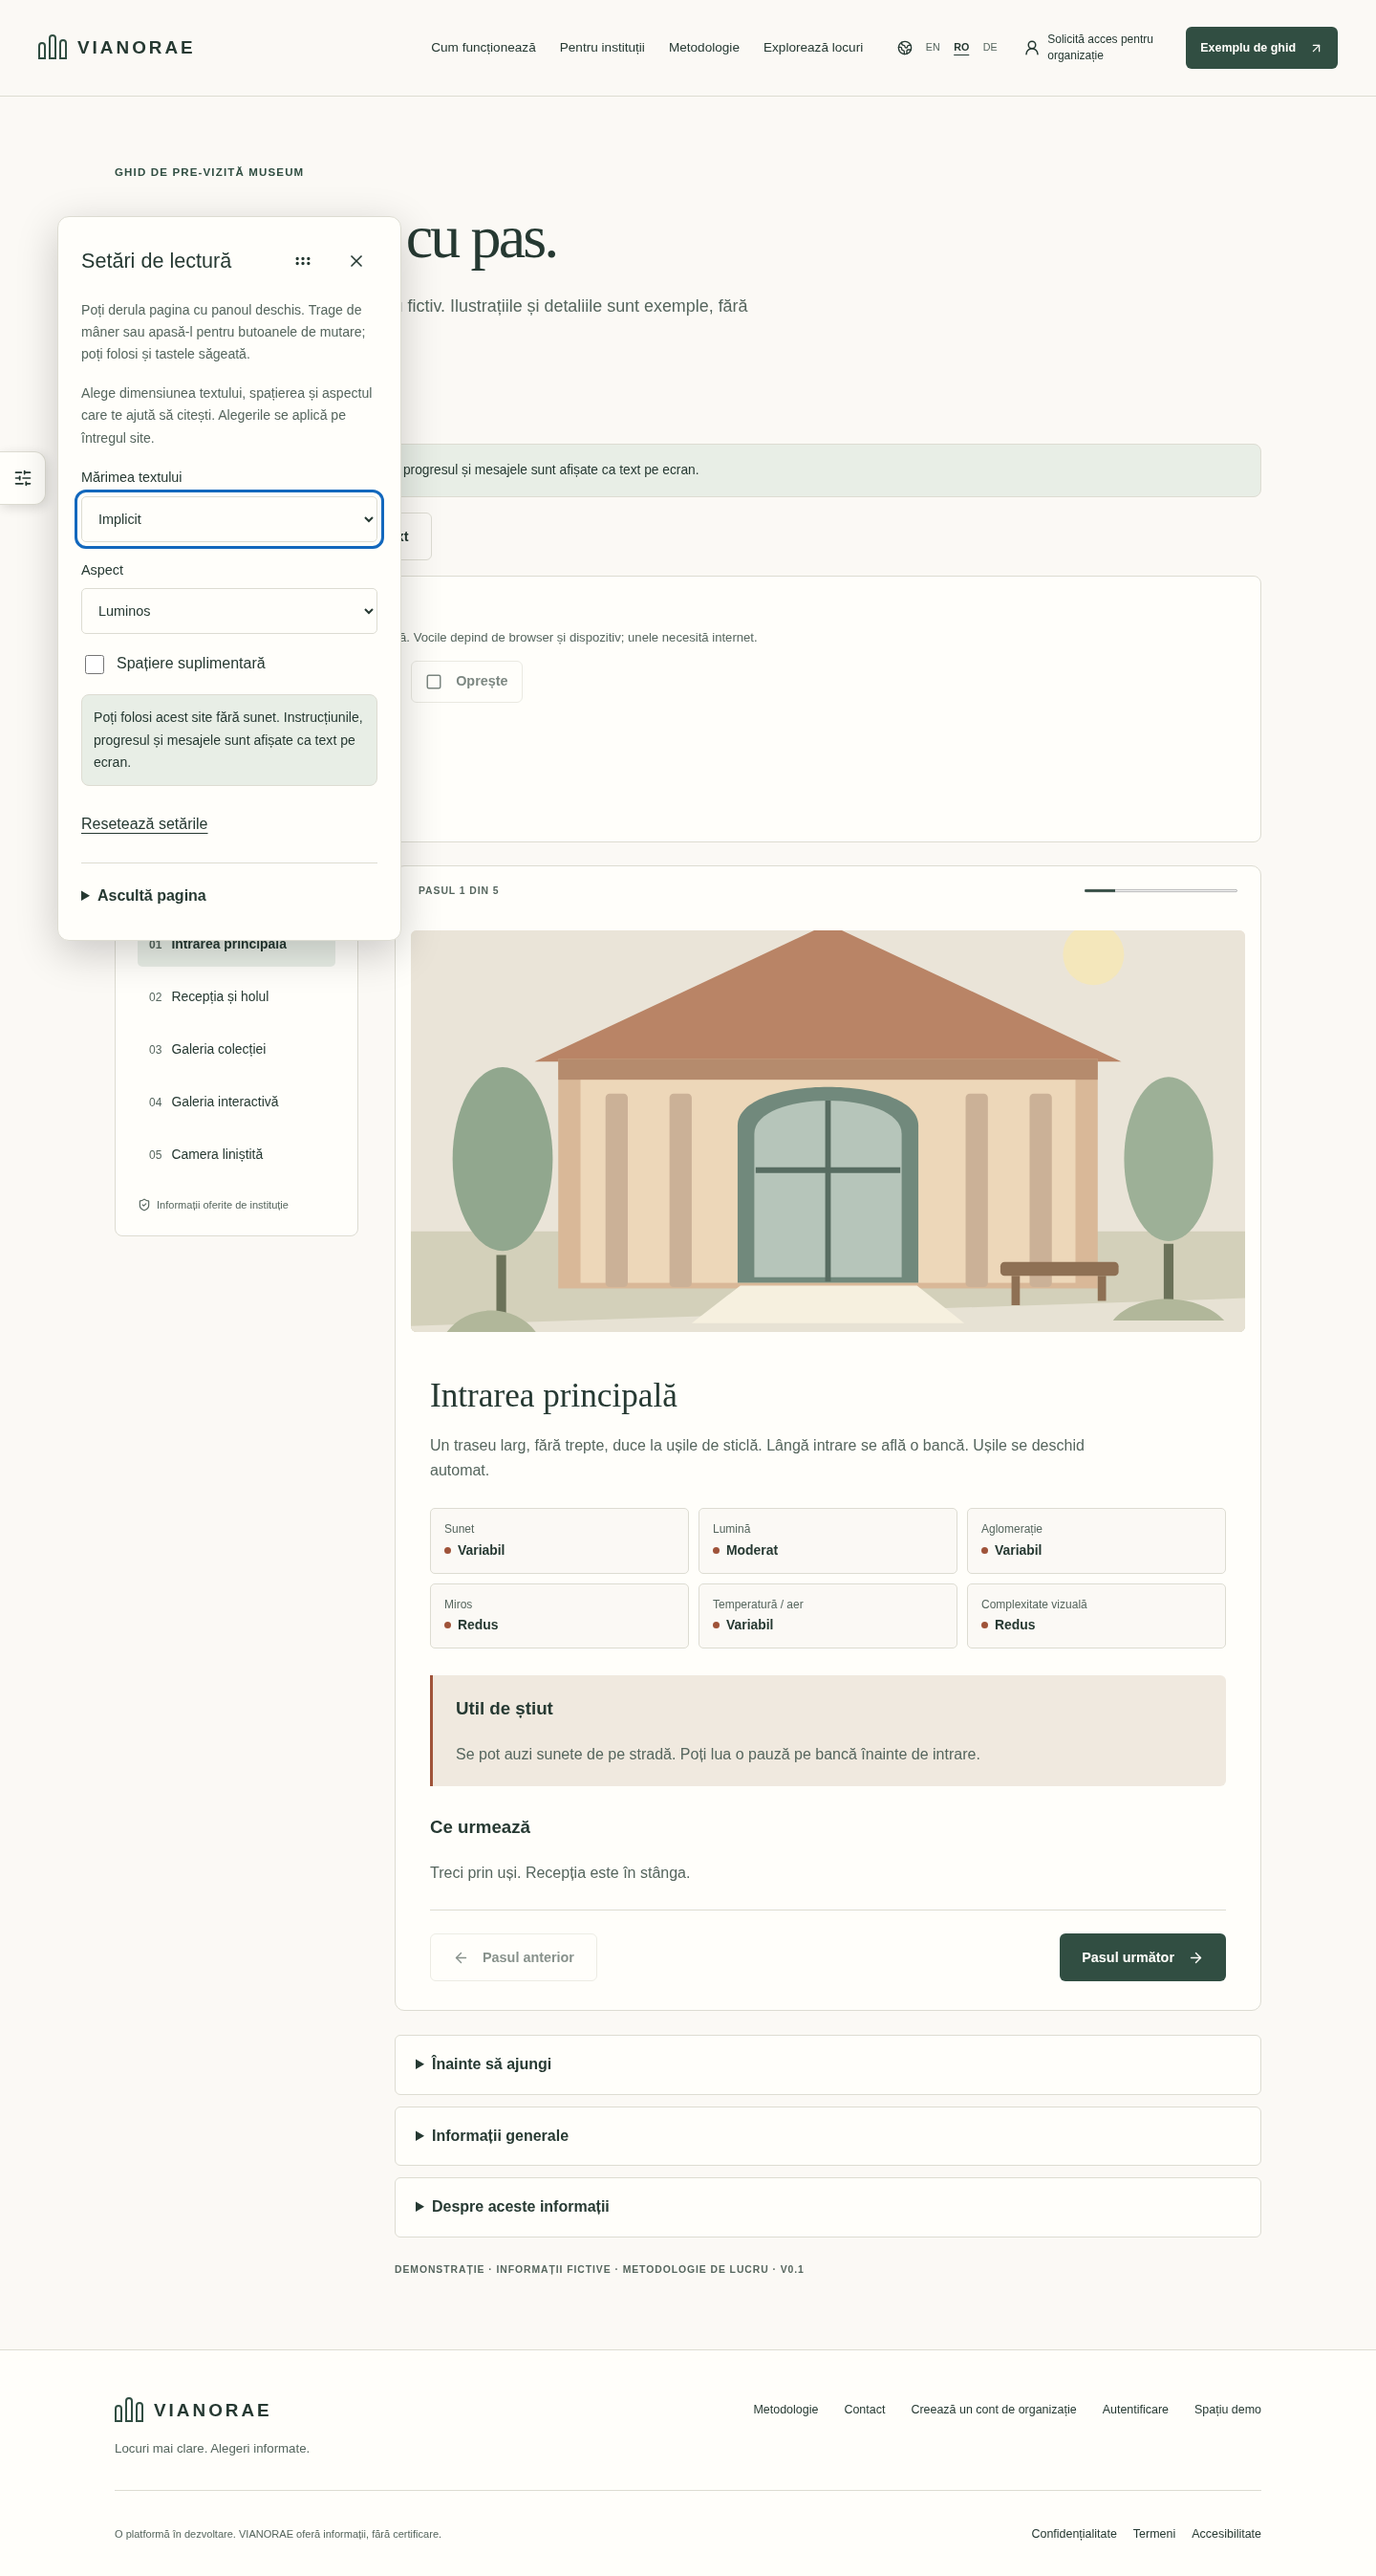
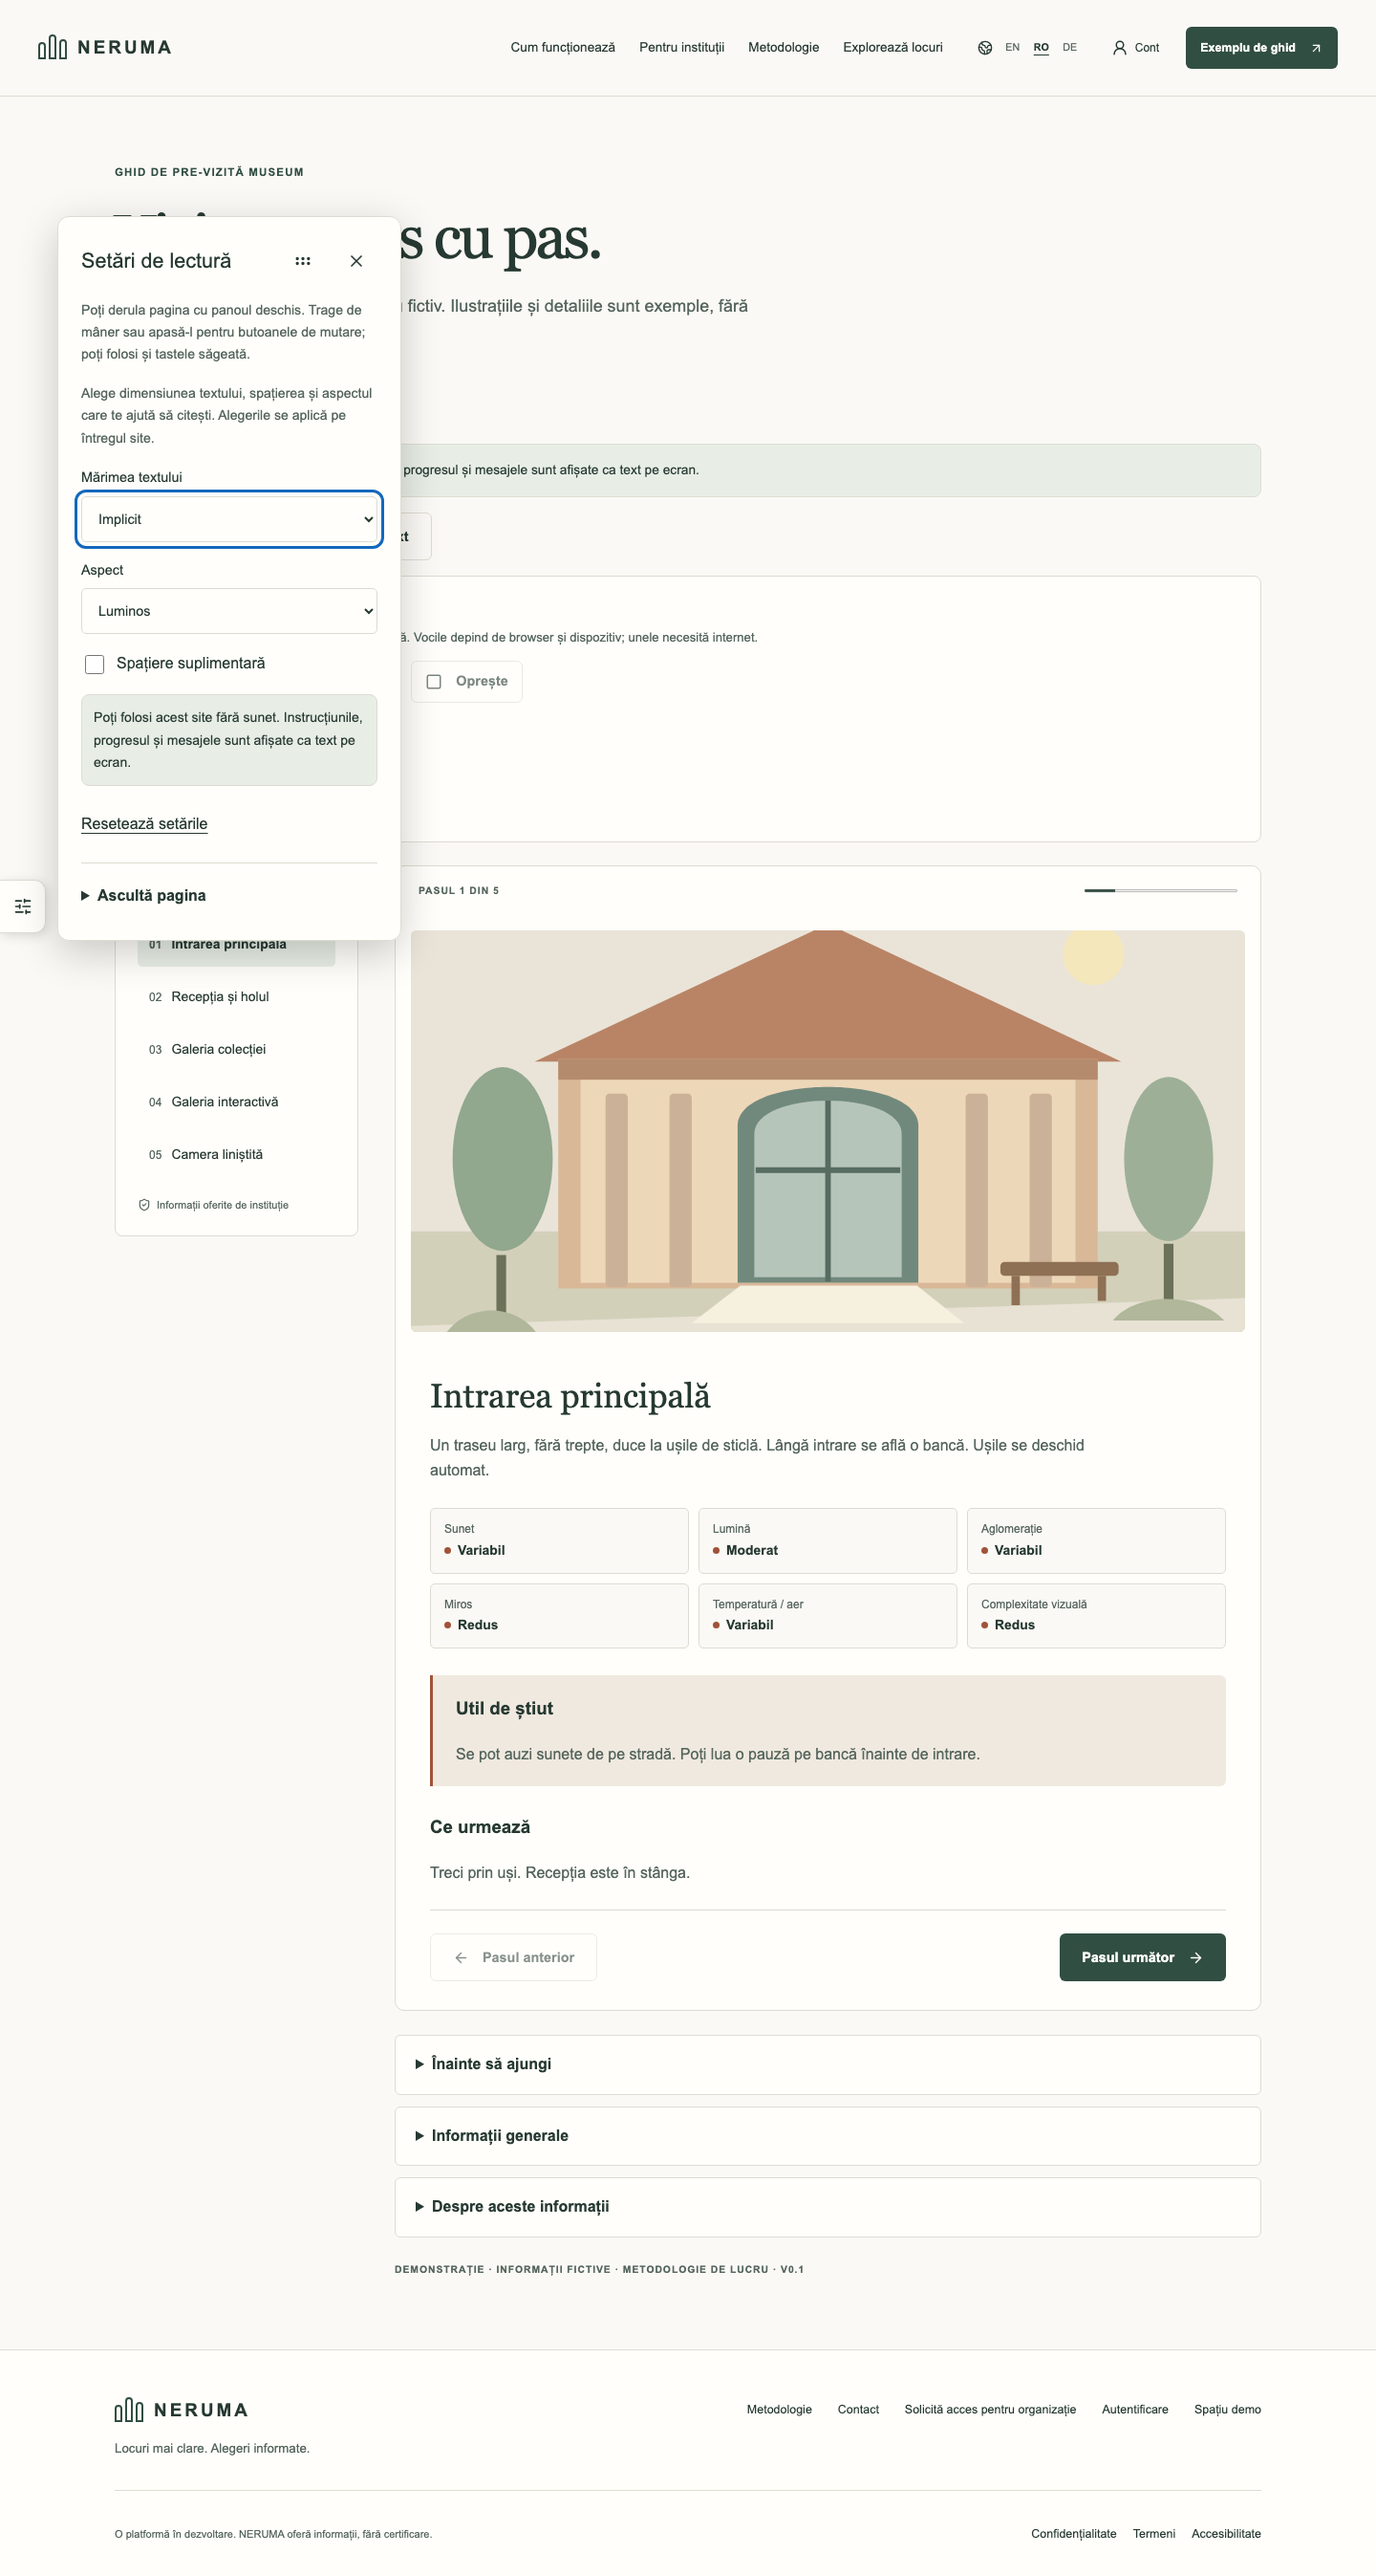
Dock reading tab to a bottom-left corner instead of mid-page
The tab was pinned vertically centered on the viewport with no gutter
reserved, so it sat on top of body copy on most pages. Anchoring it to
the bottom-left corner keeps it clear of the text people are reading.

diff --git a/src/app/globals.css b/src/app/globals.css
@@ -54,7 +54,7 @@ fieldset{min-width:0;max-width:100%}legend{max-width:100%;overflow-wrap:anywhere
 @media(max-width:760px){.reading-trigger{width:44px;height:44px;min-width:44px}.guide-text-view{padding:22px 18px}}
 @media print{.reading-trigger,.reading-dialog,.guide-display{display:none!important}.guide-text-view{border:0;padding:0}.guide-text-steps>li{break-inside:avoid}}
 .reading-dialog .form-field{min-width:0}.reading-dialog label{overflow-wrap:anywhere}
-.floating-reading{position:fixed;z-index:900;left:0;top:calc(50% - 28px);width:48px;height:56px;min-width:48px;min-height:56px;padding:0;border-left:0;border-radius:0 12px 12px 0;box-shadow:2px 3px 12px #0002}.floating-reading span{display:none}
+.floating-reading{position:fixed;z-index:900;left:0;bottom:24px;width:48px;height:56px;min-width:48px;min-height:56px;padding:0;border-left:0;border-radius:0 12px 12px 0;box-shadow:2px 3px 12px #0002}.floating-reading span{display:none}
 .panel-drag-handle{cursor:grab;touch-action:none}.panel-drag-handle:active{cursor:grabbing}.reading-dialog-heading .panel-drag-handle{margin-left:auto}.panel-move-controls:not([hidden]){display:flex;flex-wrap:wrap;gap:4px}.panel-move-controls button{border:1px solid var(--line);border-radius:6px}
 
 .read-aloud{border:1px solid var(--line);border-radius:8px;padding:18px;background:var(--surface);min-width:0;margin-top:16px}.read-aloud h3{font-size:1rem;margin-bottom:8px}.read-aloud .button-row{gap:10px}.read-aloud .button{padding:10px 14px;min-height:44px}.read-aloud button:disabled{opacity:.6;cursor:default}.audio-rate{margin-top:14px;max-width:210px}.audio-status{font-size:.85rem;margin:12px 0 0}.reading-dialog .read-aloud{margin:0;padding:14px}.reading-dialog .read-aloud .small-note{margin-bottom:12px}.reading-dialog .audio-status{margin-top:12px}

diff --git a/src/components/reading-settings.tsx b/src/components/reading-settings.tsx
@@ -11,12 +11,13 @@ const defaults:Preferences={size:'normal',theme:'light',spacing:false};
 const key='vianorae:reading:v1';
 function apply(p:Preferences) { const root=document.documentElement; root.dataset.theme=p.theme; root.dataset.textSize=p.size; root.dataset.spacing=String(p.spacing); }
 
-const clamp=(value:number,min:number,max:number)=>Math.max(min,Math.min(value,Math.max(min,max)));
+export const clamp=(value:number,min:number,max:number)=>Math.max(min,Math.min(value,Math.max(min,max)));
+// Dock to the bottom-left corner, clear of body copy that runs mid-page.
+export const launcherTop=(viewportHeight:number,buttonHeight:number)=>clamp(viewportHeight-buttonHeight-24,8,viewportHeight-buttonHeight-8);
 function placeLauncher(button:HTMLButtonElement) {
   const bounds=button.getBoundingClientRect();
-  // Dock to the viewport edge, independently of media and page content.
   button.style.left='0px';
-  button.style.top=`${clamp((window.innerHeight-bounds.height)/2,8,window.innerHeight-bounds.height-8)}px`;
+  button.style.top=`${launcherTop(window.innerHeight,bounds.height)}px`;
 }
 
 function movePanel(panel:HTMLDialogElement,left:number,top:number) {
